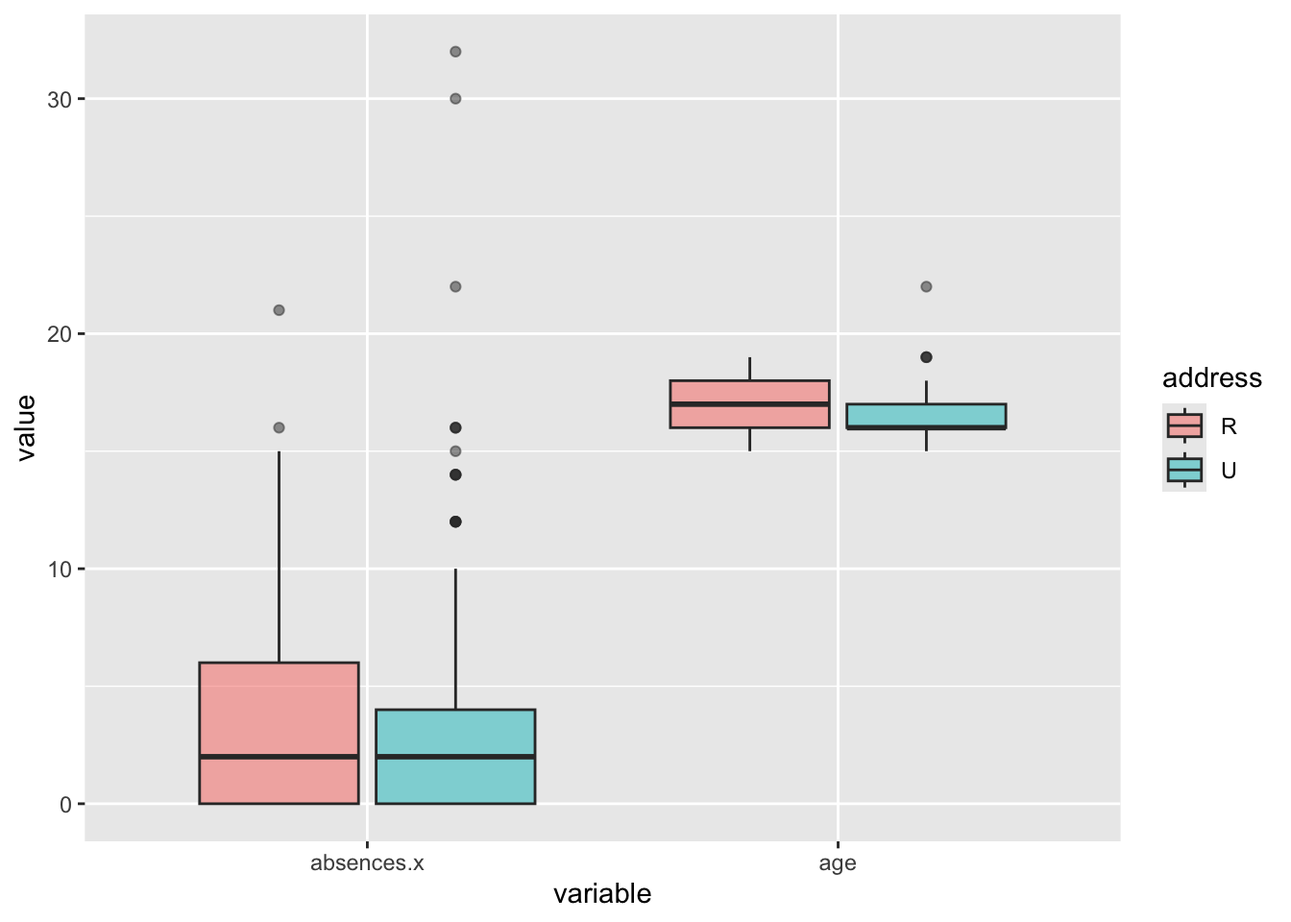
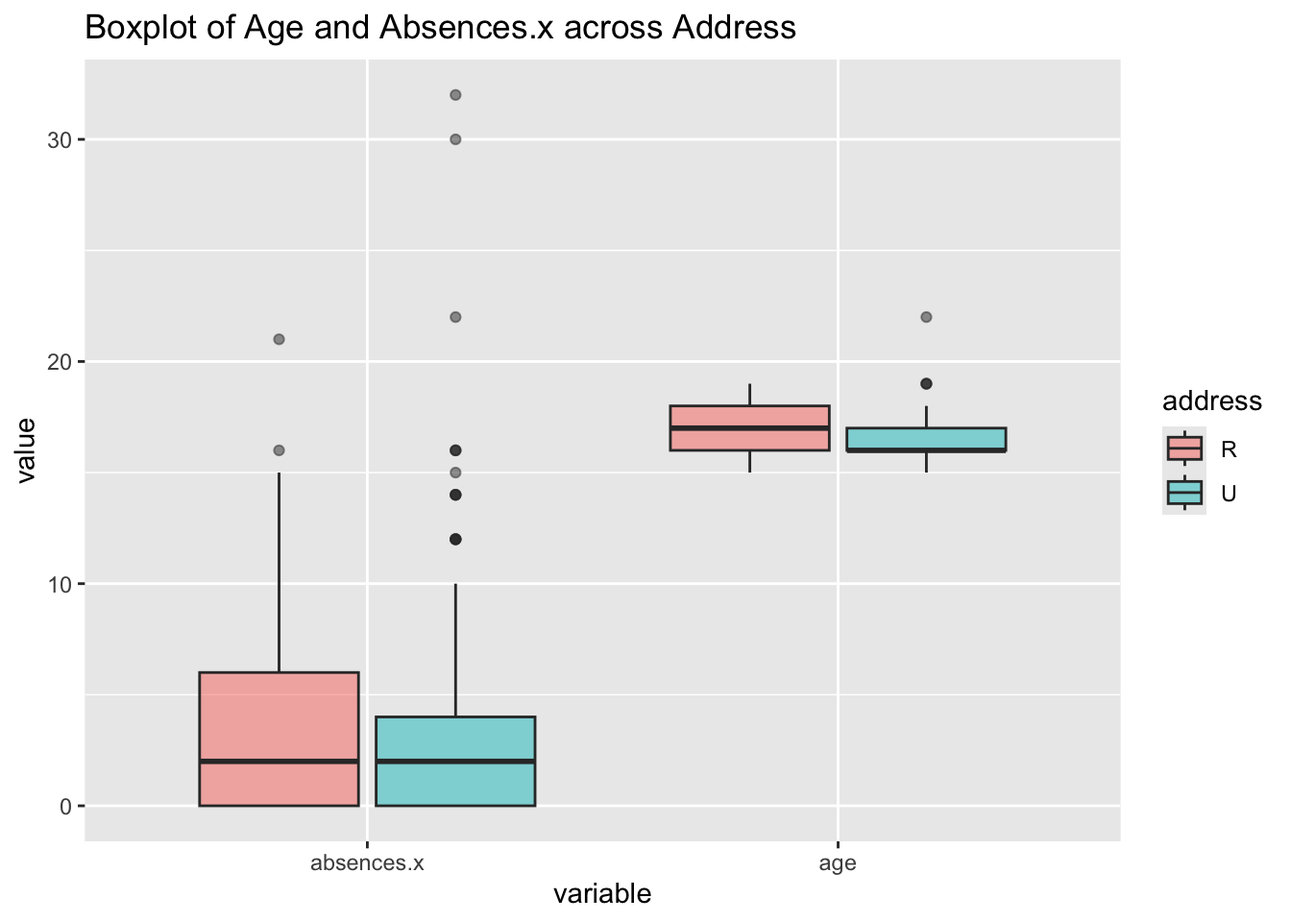
final commit with comments

diff --git a/docs/Homework 5.html b/docs/Homework 5.html
@@ -142,8 +142,32 @@ pre > code.sourceCode > span > a:first-child::before { text-decoration: underlin
 </header>
 
 
+<p>Powell Braddock</p>
+<p>ST 558</p>
+<p>October 8, 2025</p>
+<section id="introduction" class="level1">
+<h1>Introduction</h1>
+<p>The data we are investigating comes from the UCI machine learning repository and is in regards to secondary education in two Portuguese schools in two subjects: Mathematics and Portuguese. The goal of analyzing this data is to determine how out-of-school variables correlate to the student’s in-school performance.</p>
+<p>Variables that were considered are as follows:</p>
+<ul>
+<li><p>age: Integer, represents the student’s age (numeric: from 15 to 22)</p></li>
+<li><p>address: Categorical, represents the student’s home address type (binary: ‘U’ - Urban, ‘R’ - Rural)</p></li>
+<li><p>famsize: Categorical, represents the student’s family size (binary: ‘LE3’ - less than or equal to 3, ‘GT3’ - greater than 3)</p></li>
+<li><p>Pstatus: Categorical, represents the student’s parent’s cohabitation status (binary: ‘T’ - living together, ‘A’ - living apart)</p></li>
+<li><p>Fjob: Categorical, represents the student’s father’s job (nominal: ‘teacher’, ‘health’ care related’, civil ‘services’, ‘at_home’, ‘other’)</p></li>
+<li><p>reason: Categorical, represents the reason to choose this school (nominal: close to ‘home’, school ‘reputation’, ‘course’ preference, ‘other’)</p></li>
+<li><p>guardian: Categorical, represents the student’s guardian (nominal: ‘mother’, ‘father’, ‘other’)</p></li>
+<li><p>paid: Binary, represents the student’s enrollment in extra paid classes within the course subject (Math or Portuguese) (binary: yes, no)</p></li>
+<li><p>activities: Binary, represents the student’s participation in extra-curricular activities (binary: yes, no)</p></li>
+<li><p>absences: Integer, represents the student’s number of school absences (numeric: from 0 to 93)</p></li>
+<li><p>G1: Categorical, represents the student’s first period grade (numeric: from 0 to 20)</p></li>
+<li><p>G2: Categorical, represents the student’s second period grade (numeric: from 0 to 20)</p></li>
+<li><p>G3: Integer, represents the student’s final grade (numeric: from 0 to 20)</p></li>
+</ul>
+</section>
 <section id="task-1-read-in-the-data-and-modify" class="level1">
 <h1>Task 1: Read in the Data and Modify</h1>
+<p>To begin proper analysis, we will read in the downloaded data from two .csv files using <code>Base R</code>. The data in the .csv files is separated by semi-colons, which we need to specify. Then, we can combine the two .csv files using <code>rbind()</code> and confirm the data frame looks right.</p>
 <div class="cell">
 <div class="sourceCode cell-code" id="cb1"><pre class="sourceCode r code-with-copy"><code class="sourceCode r"><span id="cb1-1"><a href="#cb1-1" aria-hidden="true" tabindex="-1"></a>student_por <span class="ot">&lt;-</span> <span class="fu">read.csv</span>(<span class="st">"student-por.csv"</span>,<span class="at">sep=</span><span class="st">';'</span>)</span>
 <span id="cb1-2"><a href="#cb1-2" aria-hidden="true" tabindex="-1"></a>student_mat <span class="ot">&lt;-</span> <span class="fu">read.csv</span>(<span class="st">"student-mat.csv"</span>,<span class="at">sep=</span><span class="st">';'</span>)</span>
@@ -180,6 +204,8 @@ pre > code.sourceCode > span > a:first-child::before { text-decoration: underlin
 6        6 12 12 13</code></pre>
 </div>
 </div>
+<p>We will do the same thing again, but this time using <code>tidyverse</code>! <code>Readr</code> is a package that allows us to read .csv files into tibbles instead of data frames and also has a built in function for files with semi-colons as the delimiter: <code>read_csv2()</code>.</p>
+<p>Once these .csv files are brought in, we can use <code>dplyr</code>’s <code>inner_join()</code> function to join the two tibbles into one tibble with both math and Portuguese data. When we do this, we do get an error and our output tibble <code>joined_students_mat_por</code> has zero rows.</p>
 <div class="cell">
 <div class="sourceCode cell-code" id="cb3"><pre class="sourceCode r code-with-copy"><code class="sourceCode r"><span id="cb3-1"><a href="#cb3-1" aria-hidden="true" tabindex="-1"></a><span class="fu">library</span>(tidyverse)</span></code><button title="Copy to Clipboard" class="code-copy-button"><i class="bi"></i></button></pre></div>
 <div class="cell-output cell-output-stderr">
@@ -234,6 +260,8 @@ freetime, goout, Dalc, Walc, health, absences, G1, G2, G3)`</code></pre>
 #   Walc &lt;dbl&gt;, health &lt;dbl&gt;, absences &lt;dbl&gt;, G1 &lt;dbl&gt;, G2 &lt;dbl&gt;, G3 &lt;dbl&gt;</code></pre>
 </div>
 </div>
+<p>Let’s try again, but exclude the G1, G2, G3, paid, and absences variables when joining. This works! We now have a tibble <code>joined_students</code> with 320 rows and 38 columns/variables.</p>
+<p>When looking deeper into why this join had a successful output and the other did not, I believe it is because we are using an inner join and there were no observations where the student’s grades and absences variables matched between the Portuguese subject and the Math subject in addition to their home life variables. This makes sense, as we are looking at the student’s school performance as an output of other variables interactions.</p>
 <div class="cell">
 <div class="sourceCode cell-code" id="cb13"><pre class="sourceCode r code-with-copy"><code class="sourceCode r"><span id="cb13-1"><a href="#cb13-1" aria-hidden="true" tabindex="-1"></a>exclude_list <span class="ot">&lt;-</span> <span class="fu">c</span>(<span class="st">'G1'</span>, <span class="st">'G2'</span>, <span class="st">'G3'</span>, <span class="st">'paid'</span>, <span class="st">'absences'</span>)</span>
 <span id="cb13-2"><a href="#cb13-2" aria-hidden="true" tabindex="-1"></a>to_join_list <span class="ot">&lt;-</span> <span class="fu">names</span>(student_math_tidy)[<span class="sc">!</span><span class="fu">names</span>(student_math_tidy) <span class="sc">%in%</span> exclude_list]</span>
@@ -262,6 +290,7 @@ freetime, goout, Dalc, Walc, health, absences, G1, G2, G3)`</code></pre>
 #   G3.x &lt;dbl&gt;, paid.y &lt;chr&gt;, absences.y &lt;dbl&gt;, G1.y &lt;dbl&gt;, G2.y &lt;dbl&gt;, …</code></pre>
 </div>
 </div>
+<p>Let’s check out four specific categorical variables: address, famsize, guardian, and reason. We can use the <code>mutate</code> function to change these to be factor variables in each tibble: math, Portuguese, and the combined.</p>
 <div class="cell">
 <div class="sourceCode cell-code" id="cb15"><pre class="sourceCode r code-with-copy"><code class="sourceCode r"><span id="cb15-1"><a href="#cb15-1" aria-hidden="true" tabindex="-1"></a>student_math_tidy <span class="sc">|&gt;</span></span>
 <span id="cb15-2"><a href="#cb15-2" aria-hidden="true" tabindex="-1"></a>  <span class="fu">mutate</span>(<span class="at">address=</span><span class="fu">as.factor</span>(address), </span>
@@ -346,8 +375,10 @@ freetime, goout, Dalc, Walc, health, absences, G1, G2, G3)`</code></pre>
 </section>
 <section id="task-2-summarize-the-data-very-basic-eda" class="level1">
 <h1>Task 2: Summarize the Data (Very Basic EDA)</h1>
+<p>Now, let’s move on the summarizing the data numerically and visually to understand the relationships between the variables in the data. We can begin with the Categorical variables.</p>
 <section id="categorical-variables" class="level2">
 <h2 class="anchored" data-anchor-id="categorical-variables">Categorical Variables</h2>
+<p>This one-way contingency table shows there are 67 students who live in a rural area.</p>
 <div class="cell">
 <div class="sourceCode cell-code" id="cb21"><pre class="sourceCode r code-with-copy"><code class="sourceCode r"><span id="cb21-1"><a href="#cb21-1" aria-hidden="true" tabindex="-1"></a><span class="fu">table</span>(joined_students<span class="sc">$</span>address)</span></code><button title="Copy to Clipboard" class="code-copy-button"><i class="bi"></i></button></pre></div>
 <div class="cell-output cell-output-stdout">
@@ -356,6 +387,7 @@ freetime, goout, Dalc, Walc, health, absences, G1, G2, G3)`</code></pre>
  67 253 </code></pre>
 </div>
 </div>
+<p>This two-way contingency table shows there are 76 students who live in an urban area with a family size of less than or equal to three.</p>
 <div class="cell">
 <div class="sourceCode cell-code" id="cb23"><pre class="sourceCode r code-with-copy"><code class="sourceCode r"><span id="cb23-1"><a href="#cb23-1" aria-hidden="true" tabindex="-1"></a><span class="fu">table</span>(joined_students[,<span class="fu">c</span>(<span class="st">'address'</span>, <span class="st">'famsize'</span>)])</span></code><button title="Copy to Clipboard" class="code-copy-button"><i class="bi"></i></button></pre></div>
 <div class="cell-output cell-output-stdout">
@@ -365,6 +397,7 @@ address GT3 LE3
       U 177  76</code></pre>
 </div>
 </div>
+<p>This three-way contingency table shows that out of the students who have a guardian as their mother, 11 of them live in rural areas with a family size of less than or equal to 3.</p>
 <div class="cell">
 <div class="sourceCode cell-code" id="cb25"><pre class="sourceCode r code-with-copy"><code class="sourceCode r"><span id="cb25-1"><a href="#cb25-1" aria-hidden="true" tabindex="-1"></a><span class="fu">table</span>(joined_students[,<span class="fu">c</span>(<span class="st">'address'</span>, <span class="st">'famsize'</span>, <span class="st">'guardian'</span>)])</span></code><button title="Copy to Clipboard" class="code-copy-button"><i class="bi"></i></button></pre></div>
 <div class="cell-output cell-output-stdout">
@@ -390,12 +423,17 @@ address GT3 LE3
       U   5   3</code></pre>
 </div>
 </div>
+<p>We can use <code>table()</code> to create a two-way conditional table, first, by subsetting it, then, by creating a three-way table and subsetting it. Both result in the same table: where we can see 43 students with their mother as their guardian live in rural areas with family sizes greater than 3.</p>
 <div class="cell">
-<div class="sourceCode cell-code" id="cb27"><pre class="sourceCode r code-with-copy"><code class="sourceCode r"><span id="cb27-1"><a href="#cb27-1" aria-hidden="true" tabindex="-1"></a>two_way_add_fam <span class="ot">&lt;-</span><span class="fu">table</span>(joined_students[,<span class="fu">c</span>(<span class="st">'address'</span>, <span class="st">'famsize'</span>)])</span>
-<span id="cb27-2"><a href="#cb27-2" aria-hidden="true" tabindex="-1"></a>two_way_add_fam[,<span class="dv">1</span>]</span></code><button title="Copy to Clipboard" class="code-copy-button"><i class="bi"></i></button></pre></div>
+<div class="sourceCode cell-code" id="cb27"><pre class="sourceCode r code-with-copy"><code class="sourceCode r"><span id="cb27-1"><a href="#cb27-1" aria-hidden="true" tabindex="-1"></a>subset_three_way_first <span class="ot">&lt;-</span></span>
+<span id="cb27-2"><a href="#cb27-2" aria-hidden="true" tabindex="-1"></a>  joined_students <span class="sc">|&gt;</span></span>
+<span id="cb27-3"><a href="#cb27-3" aria-hidden="true" tabindex="-1"></a>    <span class="fu">filter</span>(guardian <span class="sc">==</span> <span class="st">'mother'</span>)</span>
+<span id="cb27-4"><a href="#cb27-4" aria-hidden="true" tabindex="-1"></a><span class="fu">table</span>(subset_three_way_first[,<span class="fu">c</span>(<span class="st">'address'</span>, <span class="st">'famsize'</span>)])</span></code><button title="Copy to Clipboard" class="code-copy-button"><i class="bi"></i></button></pre></div>
 <div class="cell-output cell-output-stdout">
-<pre><code>  R   U 
- 53 177 </code></pre>
+<pre><code>       famsize
+address GT3 LE3
+      R  43  11
+      U 128  55</code></pre>
 </div>
 </div>
 <div class="cell">
@@ -408,11 +446,13 @@ address GT3 LE3
       U 128  55</code></pre>
 </div>
 </div>
+<p>Let’s try to create a two-way contingency table using <code>group_by()</code> and <code>summarize()</code> from <code>dplyr</code>, then <code>pivot_wider()</code> to make the result look like the output from using <code>table()</code>.</p>
 <div class="cell">
 <div class="sourceCode cell-code" id="cb31"><pre class="sourceCode r code-with-copy"><code class="sourceCode r"><span id="cb31-1"><a href="#cb31-1" aria-hidden="true" tabindex="-1"></a>joined_students <span class="sc">|&gt;</span></span>
 <span id="cb31-2"><a href="#cb31-2" aria-hidden="true" tabindex="-1"></a>  <span class="fu">group_by</span>(address, famsize) <span class="sc">|&gt;</span></span>
-<span id="cb31-3"><a href="#cb31-3" aria-hidden="true" tabindex="-1"></a>  <span class="fu">summarise</span>(<span class="at">count=</span><span class="fu">n</span>()) <span class="sc">|&gt;</span></span>
-<span id="cb31-4"><a href="#cb31-4" aria-hidden="true" tabindex="-1"></a>  <span class="fu">pivot_wider</span>(<span class="at">names_from =</span> famsize, <span class="at">values_from =</span> count)</span></code><button title="Copy to Clipboard" class="code-copy-button"><i class="bi"></i></button></pre></div>
+<span id="cb31-3"><a href="#cb31-3" aria-hidden="true" tabindex="-1"></a>  <span class="fu">filter</span>(guardian <span class="sc">==</span> <span class="st">'mother'</span>) <span class="sc">|&gt;</span></span>
+<span id="cb31-4"><a href="#cb31-4" aria-hidden="true" tabindex="-1"></a>  <span class="fu">summarise</span>(<span class="at">count=</span><span class="fu">n</span>()) <span class="sc">|&gt;</span></span>
+<span id="cb31-5"><a href="#cb31-5" aria-hidden="true" tabindex="-1"></a>  <span class="fu">pivot_wider</span>(<span class="at">names_from =</span> famsize, <span class="at">values_from =</span> count)</span></code><button title="Copy to Clipboard" class="code-copy-button"><i class="bi"></i></button></pre></div>
 <div class="cell-output cell-output-stderr">
 <pre><code>`summarise()` has grouped output by 'address'. You can override using the
 `.groups` argument.</code></pre>
@@ -422,10 +462,11 @@ address GT3 LE3
 # Groups:   address [2]
   address   GT3   LE3
   &lt;chr&gt;   &lt;int&gt; &lt;int&gt;
-1 R          53    14
-2 U         177    76</code></pre>
+1 R          43    11
+2 U         128    55</code></pre>
 </div>
 </div>
+<p>Now for the visual: We can use ggplot() to create both a stacked bar graph and a side-by-side bar graph!</p>
 <div class="cell">
 <div class="sourceCode cell-code" id="cb34"><pre class="sourceCode r code-with-copy"><code class="sourceCode r"><span id="cb34-1"><a href="#cb34-1" aria-hidden="true" tabindex="-1"></a>g <span class="ot">&lt;-</span> <span class="fu">ggplot</span>(<span class="at">data =</span> joined_students <span class="sc">|&gt;</span> <span class="fu">drop_na</span>(address, famsize), <span class="fu">aes</span>(<span class="at">x =</span> address, <span class="at">fill =</span> famsize)) <span class="sc">+</span> </span>
 <span id="cb34-2"><a href="#cb34-2" aria-hidden="true" tabindex="-1"></a>  <span class="fu">geom_bar</span>() <span class="sc">+</span></span>
@@ -457,6 +498,7 @@ address GT3 LE3
 </section>
 <section id="numeric-variables-and-across-groups" class="level2">
 <h2 class="anchored" data-anchor-id="numeric-variables-and-across-groups">Numeric Variables (and Across Groups)</h2>
+<p>Moving on, let’s investigate the numeric variables: age, absences, and the three test grade variables. We can begin by checking out the measures of center and spread for age, absences in Portuguese, and the G3 grade in Portuguese.</p>
 <div class="cell">
 <div class="sourceCode cell-code" id="cb36"><pre class="sourceCode r code-with-copy"><code class="sourceCode r"><span id="cb36-1"><a href="#cb36-1" aria-hidden="true" tabindex="-1"></a>joined_students <span class="sc">|&gt;</span></span>
 <span id="cb36-2"><a href="#cb36-2" aria-hidden="true" tabindex="-1"></a>  <span class="fu">summarize</span>(<span class="fu">across</span>(<span class="fu">all_of</span>(<span class="fu">c</span>(<span class="st">'age'</span>, <span class="st">'absences.x'</span>, <span class="st">'G3.x'</span>)),</span>
@@ -471,6 +513,7 @@ address GT3 LE3
 #   mean_G3.x &lt;dbl&gt;, median_G3.x &lt;dbl&gt;, stddev_G3.x &lt;dbl&gt;, IQR_G3.x &lt;dbl&gt;</code></pre>
 </div>
 </div>
+<p>Now what does those measures look like across the address grouping variable? Looks like students with an urban address have a slightly lower average age, lower average absences, and higher average G3 value than their rural address counterparts.</p>
 <div class="cell">
 <div class="sourceCode cell-code" id="cb38"><pre class="sourceCode r code-with-copy"><code class="sourceCode r"><span id="cb38-1"><a href="#cb38-1" aria-hidden="true" tabindex="-1"></a>joined_students <span class="sc">|&gt;</span></span>
 <span id="cb38-2"><a href="#cb38-2" aria-hidden="true" tabindex="-1"></a>  <span class="fu">group_by</span>(address) <span class="sc">|&gt;</span></span>
@@ -488,6 +531,7 @@ address GT3 LE3
 #   stddev_G3.x &lt;dbl&gt;, IQR_G3.x &lt;dbl&gt;</code></pre>
 </div>
 </div>
+<p>How about across both address and family size? Students from rural areas and larger family size have lower average and median G3 Portuguese scores than students with smaller families and students with urban addresses.</p>
 <div class="cell">
 <div class="sourceCode cell-code" id="cb40"><pre class="sourceCode r code-with-copy"><code class="sourceCode r"><span id="cb40-1"><a href="#cb40-1" aria-hidden="true" tabindex="-1"></a>joined_students <span class="sc">|&gt;</span></span>
 <span id="cb40-2"><a href="#cb40-2" aria-hidden="true" tabindex="-1"></a>  <span class="fu">group_by</span>(address, famsize) <span class="sc">|&gt;</span></span>
@@ -512,6 +556,10 @@ address GT3 LE3
 #   stddev_G3.x &lt;dbl&gt;, IQR_G3.x &lt;dbl&gt;</code></pre>
 </div>
 </div>
+<p>Let’s see what the correlation matrix looks like between all of the numeric variables!</p>
+<p>I found it interesting and validating that the correlation between absences from both subjects was as high as it was because if a student misses a full day of classes, they will be absent from both subjects.</p>
+<p>Correlation between grades of the same subject is strong, which is reasonable.</p>
+<p>I am surprised to see a lack of correlation between absences and the resulting grades.</p>
 <div class="cell">
 <div class="sourceCode cell-code" id="cb43"><pre class="sourceCode r code-with-copy"><code class="sourceCode r"><span id="cb43-1"><a href="#cb43-1" aria-hidden="true" tabindex="-1"></a>numeric_cols <span class="ot">&lt;-</span> <span class="fu">c</span>(<span class="st">'age'</span>, <span class="st">'absences.x'</span>, <span class="st">'absences.y'</span>, <span class="st">'G1.x'</span>,<span class="st">'G1.y'</span>,<span class="st">'G2.x'</span>,<span class="st">'G2.y'</span>,<span class="st">'G3.x'</span>,<span class="st">'G3.y'</span>)</span>
 <span id="cb43-2"><a href="#cb43-2" aria-hidden="true" tabindex="-1"></a>joined_students <span class="sc">|&gt;</span></span>
@@ -608,6 +656,7 @@ G3.x        0.92776304  0.46866095  1.0000000  0.45531436
 G3.y        0.51147036  0.92010117  0.4553144  1.00000000</code></pre>
 </div>
 </div>
+<p>Let’s check out a histogram for age and absences in Portuguese across address. I’m not feeling like we can draw many conclusions from this visual, as there are more urban address students represented and it is a count graph and age and absences are plotted on the same histogram, per the instructions, which is weird.</p>
 <div class="cell">
 <div class="sourceCode cell-code" id="cb45"><pre class="sourceCode r code-with-copy"><code class="sourceCode r"><span id="cb45-1"><a href="#cb45-1" aria-hidden="true" tabindex="-1"></a>histo_data <span class="ot">&lt;-</span> joined_students <span class="sc">|&gt;</span></span>
 <span id="cb45-2"><a href="#cb45-2" aria-hidden="true" tabindex="-1"></a>  <span class="fu">drop_na</span>(age, absences.x, address) <span class="sc">|&gt;</span></span>
@@ -616,7 +665,8 @@ G3.y        0.51147036  0.92010117  0.4553144  1.00000000</code></pre>
 <span id="cb45-5"><a href="#cb45-5" aria-hidden="true" tabindex="-1"></a>               <span class="at">names_to =</span> <span class="st">'variable'</span>,</span>
 <span id="cb45-6"><a href="#cb45-6" aria-hidden="true" tabindex="-1"></a>               <span class="at">values_to =</span> <span class="st">'value'</span>)</span>
 <span id="cb45-7"><a href="#cb45-7" aria-hidden="true" tabindex="-1"></a><span class="fu">ggplot</span>(histo_data, <span class="fu">aes</span>(<span class="at">x=</span>value, <span class="at">fill =</span> <span class="fu">interaction</span>(variable, address))) <span class="sc">+</span> </span>
-<span id="cb45-8"><a href="#cb45-8" aria-hidden="true" tabindex="-1"></a>  <span class="fu">geom_histogram</span>(<span class="at">alpha=</span><span class="fl">0.5</span>, <span class="at">bins=</span><span class="dv">15</span>)</span></code><button title="Copy to Clipboard" class="code-copy-button"><i class="bi"></i></button></pre></div>
+<span id="cb45-8"><a href="#cb45-8" aria-hidden="true" tabindex="-1"></a>  <span class="fu">geom_histogram</span>(<span class="at">alpha=</span><span class="fl">0.5</span>, <span class="at">bins=</span><span class="dv">15</span>) <span class="sc">+</span></span>
+<span id="cb45-9"><a href="#cb45-9" aria-hidden="true" tabindex="-1"></a>  <span class="fu">labs</span>(<span class="at">title =</span> <span class="st">'Histogram of Age and Absences.x across Address'</span>)</span></code><button title="Copy to Clipboard" class="code-copy-button"><i class="bi"></i></button></pre></div>
 <div class="cell-output-display">
 <div>
 <figure class="figure">
@@ -625,9 +675,11 @@ G3.y        0.51147036  0.92010117  0.4553144  1.00000000</code></pre>
 </div>
 </div>
 </div>
+<p>The Kernel Density Plot makes slightly more sense, as it shows density instead of count data, however the age and absences being on the same plot really confuses me.</p>
 <div class="cell">
 <div class="sourceCode cell-code" id="cb46"><pre class="sourceCode r code-with-copy"><code class="sourceCode r"><span id="cb46-1"><a href="#cb46-1" aria-hidden="true" tabindex="-1"></a><span class="fu">ggplot</span>(histo_data, <span class="fu">aes</span>(<span class="at">x=</span>value, <span class="at">fill =</span> <span class="fu">interaction</span>(variable, address))) <span class="sc">+</span> </span>
-<span id="cb46-2"><a href="#cb46-2" aria-hidden="true" tabindex="-1"></a>  <span class="fu">geom_density</span>(<span class="at">kernel=</span><span class="st">'gaussian'</span>)</span></code><button title="Copy to Clipboard" class="code-copy-button"><i class="bi"></i></button></pre></div>
+<span id="cb46-2"><a href="#cb46-2" aria-hidden="true" tabindex="-1"></a>  <span class="fu">geom_density</span>(<span class="at">kernel=</span><span class="st">'gaussian'</span>) <span class="sc">+</span></span>
+<span id="cb46-3"><a href="#cb46-3" aria-hidden="true" tabindex="-1"></a>  <span class="fu">labs</span>(<span class="at">title =</span> <span class="st">'Kernel Density Plot of Age and Absences.x across Address'</span>)</span></code><button title="Copy to Clipboard" class="code-copy-button"><i class="bi"></i></button></pre></div>
 <div class="cell-output-display">
 <div>
 <figure class="figure">
@@ -636,9 +688,11 @@ G3.y        0.51147036  0.92010117  0.4553144  1.00000000</code></pre>
 </div>
 </div>
 </div>
+<p>Finally, the boxplot of the same information makes way more sense. We can see the wider spread of the number of absences among rural students versus urban students. Age is also more widely spread in the rural student population than the urban students.</p>
 <div class="cell">
 <div class="sourceCode cell-code" id="cb47"><pre class="sourceCode r code-with-copy"><code class="sourceCode r"><span id="cb47-1"><a href="#cb47-1" aria-hidden="true" tabindex="-1"></a><span class="fu">ggplot</span>(histo_data, <span class="fu">aes</span>(<span class="at">x=</span> variable, <span class="at">y=</span>value, <span class="at">fill=</span>address)) <span class="sc">+</span> </span>
-<span id="cb47-2"><a href="#cb47-2" aria-hidden="true" tabindex="-1"></a>  <span class="fu">geom_boxplot</span>(<span class="at">alpha=</span><span class="fl">0.5</span>)</span></code><button title="Copy to Clipboard" class="code-copy-button"><i class="bi"></i></button></pre></div>
+<span id="cb47-2"><a href="#cb47-2" aria-hidden="true" tabindex="-1"></a>  <span class="fu">geom_boxplot</span>(<span class="at">alpha=</span><span class="fl">0.5</span>)<span class="sc">+</span> </span>
+<span id="cb47-3"><a href="#cb47-3" aria-hidden="true" tabindex="-1"></a>  <span class="fu">labs</span>(<span class="at">title=</span><span class="st">'Boxplot of Age and Absences.x across Address'</span>)</span></code><button title="Copy to Clipboard" class="code-copy-button"><i class="bi"></i></button></pre></div>
 <div class="cell-output-display">
 <div>
 <figure class="figure">
@@ -647,9 +701,11 @@ G3.y        0.51147036  0.92010117  0.4553144  1.00000000</code></pre>
 </div>
 </div>
 </div>
+<p>We can see in both of the scatterplots belowthe relationship between the G3.x variable and both Absences.x and age across address. Most of the students have less than 10 absences for this course, while the age is more spread across different values in a cluster, with less outliers for either type of address.</p>
 <div class="cell">
 <div class="sourceCode cell-code" id="cb48"><pre class="sourceCode r code-with-copy"><code class="sourceCode r"><span id="cb48-1"><a href="#cb48-1" aria-hidden="true" tabindex="-1"></a><span class="fu">ggplot</span>(joined_students, <span class="fu">aes</span>(<span class="at">x=</span> absences.x, <span class="at">y=</span>G3.x, <span class="at">color=</span>address)) <span class="sc">+</span> </span>
-<span id="cb48-2"><a href="#cb48-2" aria-hidden="true" tabindex="-1"></a>  <span class="fu">geom_point</span>(<span class="at">position=</span><span class="st">'jitter'</span>)</span></code><button title="Copy to Clipboard" class="code-copy-button"><i class="bi"></i></button></pre></div>
+<span id="cb48-2"><a href="#cb48-2" aria-hidden="true" tabindex="-1"></a>  <span class="fu">geom_point</span>(<span class="at">position=</span><span class="st">'jitter'</span>) <span class="sc">+</span></span>
+<span id="cb48-3"><a href="#cb48-3" aria-hidden="true" tabindex="-1"></a>  <span class="fu">labs</span>(<span class="at">title =</span> <span class="st">'G3.x vs. Absences.x across Address Scatterplot'</span>)</span></code><button title="Copy to Clipboard" class="code-copy-button"><i class="bi"></i></button></pre></div>
 <div class="cell-output-display">
 <div>
 <figure class="figure">
@@ -658,7 +714,8 @@ G3.y        0.51147036  0.92010117  0.4553144  1.00000000</code></pre>
 </div>
 </div>
 <div class="sourceCode cell-code" id="cb49"><pre class="sourceCode r code-with-copy"><code class="sourceCode r"><span id="cb49-1"><a href="#cb49-1" aria-hidden="true" tabindex="-1"></a><span class="fu">ggplot</span>(joined_students, <span class="fu">aes</span>(<span class="at">x=</span> age, <span class="at">y=</span>G3.x, <span class="at">color=</span>address)) <span class="sc">+</span> </span>
-<span id="cb49-2"><a href="#cb49-2" aria-hidden="true" tabindex="-1"></a>  <span class="fu">geom_point</span>(<span class="at">position=</span><span class="st">'jitter'</span>)</span></code><button title="Copy to Clipboard" class="code-copy-button"><i class="bi"></i></button></pre></div>
+<span id="cb49-2"><a href="#cb49-2" aria-hidden="true" tabindex="-1"></a>  <span class="fu">geom_point</span>(<span class="at">position=</span><span class="st">'jitter'</span>)<span class="sc">+</span></span>
+<span id="cb49-3"><a href="#cb49-3" aria-hidden="true" tabindex="-1"></a>  <span class="fu">labs</span>(<span class="at">title =</span> <span class="st">'G3.x vs. Age across Address Scatterplot'</span>)</span></code><button title="Copy to Clipboard" class="code-copy-button"><i class="bi"></i></button></pre></div>
 <div class="cell-output-display">
 <div>
 <figure class="figure">
@@ -667,10 +724,12 @@ G3.y        0.51147036  0.92010117  0.4553144  1.00000000</code></pre>
 </div>
 </div>
 </div>
+<p>Let’s see how these scatterplots look for different student’s father’s jobs. More scatter for grades occurred in services than any other jobs. Most jobs were in the ‘other’ category, with only rural address students having very low (outlier) G3.x scores. Father’s who had jobs ‘at_home’ or in ‘health’ had students with a G3.x score of more than 10.</p>
 <div class="cell">
 <div class="sourceCode cell-code" id="cb50"><pre class="sourceCode r code-with-copy"><code class="sourceCode r"><span id="cb50-1"><a href="#cb50-1" aria-hidden="true" tabindex="-1"></a><span class="fu">ggplot</span>(joined_students, <span class="fu">aes</span>(<span class="at">x=</span> age, <span class="at">y=</span>G3.x, <span class="at">color=</span>address)) <span class="sc">+</span> </span>
 <span id="cb50-2"><a href="#cb50-2" aria-hidden="true" tabindex="-1"></a>  <span class="fu">geom_point</span>(<span class="at">position=</span><span class="st">'jitter'</span>)<span class="sc">+</span></span>
-<span id="cb50-3"><a href="#cb50-3" aria-hidden="true" tabindex="-1"></a>  <span class="fu">facet_wrap</span>(<span class="sc">~</span> Fjob)</span></code><button title="Copy to Clipboard" class="code-copy-button"><i class="bi"></i></button></pre></div>
+<span id="cb50-3"><a href="#cb50-3" aria-hidden="true" tabindex="-1"></a>  <span class="fu">facet_wrap</span>(<span class="sc">~</span> Fjob)<span class="sc">+</span></span>
+<span id="cb50-4"><a href="#cb50-4" aria-hidden="true" tabindex="-1"></a>  <span class="fu">labs</span>(<span class="at">title=</span><span class="st">'G3.x vs. Age across Address and Fjob Scatterplots'</span>)</span></code><button title="Copy to Clipboard" class="code-copy-button"><i class="bi"></i></button></pre></div>
 <div class="cell-output-display">
 <div>
 <figure class="figure">
@@ -679,10 +738,13 @@ G3.y        0.51147036  0.92010117  0.4553144  1.00000000</code></pre>
 </div>
 </div>
 </div>
+<p>Let’s see about these same core variables across parental living status and involvement in extra-curricular activities.</p>
+<p>More students had parents who lived together than apart. No students with parents living apart had less than a 9 score for the G3.x, while there was certainly more spread among the larger population of students with parents that lived together.</p>
 <div class="cell">
 <div class="sourceCode cell-code" id="cb51"><pre class="sourceCode r code-with-copy"><code class="sourceCode r"><span id="cb51-1"><a href="#cb51-1" aria-hidden="true" tabindex="-1"></a><span class="fu">ggplot</span>(joined_students, <span class="fu">aes</span>(<span class="at">x=</span> age, <span class="at">y=</span>G3.x, <span class="at">color=</span>address)) <span class="sc">+</span> </span>
 <span id="cb51-2"><a href="#cb51-2" aria-hidden="true" tabindex="-1"></a>  <span class="fu">geom_point</span>(<span class="at">position=</span><span class="st">'jitter'</span>)<span class="sc">+</span></span>
-<span id="cb51-3"><a href="#cb51-3" aria-hidden="true" tabindex="-1"></a>  <span class="fu">facet_wrap</span>(activities <span class="sc">~</span> Pstatus)</span></code><button title="Copy to Clipboard" class="code-copy-button"><i class="bi"></i></button></pre></div>
+<span id="cb51-3"><a href="#cb51-3" aria-hidden="true" tabindex="-1"></a>  <span class="fu">facet_wrap</span>(activities <span class="sc">~</span> Pstatus)<span class="sc">+</span></span>
+<span id="cb51-4"><a href="#cb51-4" aria-hidden="true" tabindex="-1"></a>  <span class="fu">labs</span>(<span class="at">title=</span><span class="st">'G3.x vs. Age across Address, Activities, and Pstatus Scatterplots'</span>)</span></code><button title="Copy to Clipboard" class="code-copy-button"><i class="bi"></i></button></pre></div>
 <div class="cell-output-display">
 <div>
 <figure class="figure">
@@ -691,6 +753,7 @@ G3.y        0.51147036  0.92010117  0.4553144  1.00000000</code></pre>
 </div>
 </div>
 </div>
+<p>There is one outlier of a student living in a rural area with parents that live together and is involved with extra-curricular activities who scored very low on the G3.x variable. A follow-up might be to investigate this student and if any data is missing or if there are challenging experiences occurring that are not included in the data categories.</p>
 
 
 </section>
